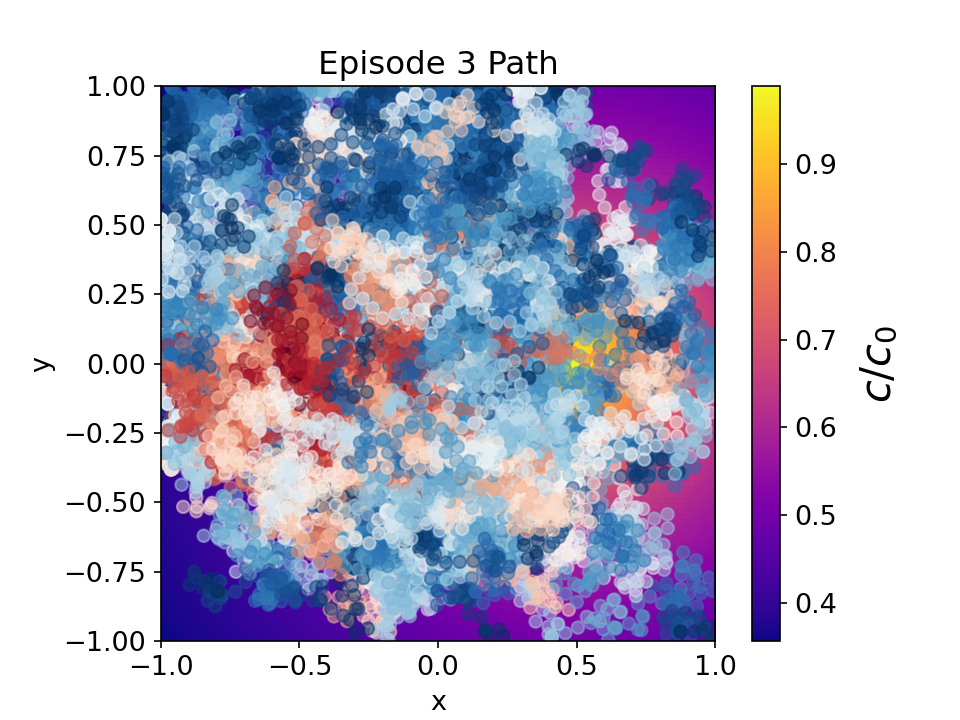
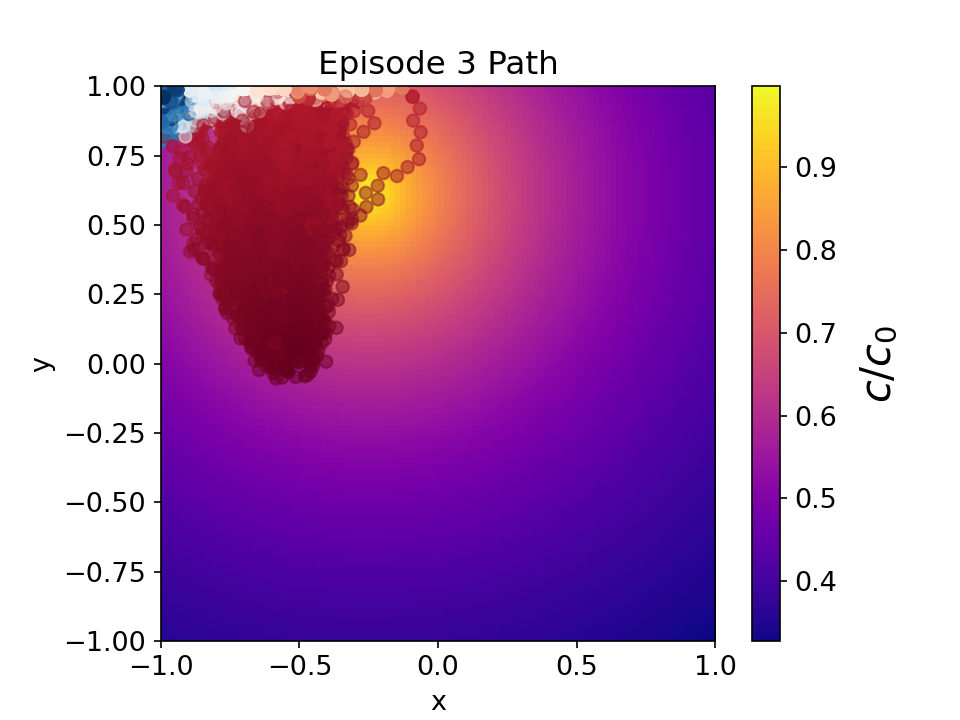
test episodes implemented

diff --git a/plot_utils.py b/plot_utils.py
@@ -2,38 +2,42 @@ import matplotlib.pyplot as plt
 import numpy as np
 import os
 import shutil
-from matplotlib import patches
 
 class RLPlotter():
-    def __init__(self, logger):
+    def __init__(self, logger, path, test=False):
         self.logger = logger
-    
-    def update_goal(self, goal_area):
-        self.goal_area = goal_area
+        self.path = path
+        self.test = test
 
+    def update_goal(self, goal):
+        self.goal = goal
 
-    def clear_plots(self):
-        clear_folder('episode_losses_critic')
-        clear_folder('episode_losses_actor')
-        clear_folder('episode_actions')
-        clear_folder('episode_paths')
-        clear_folder('run_losses_critic')
-        clear_folder('run_losses_actor')
-        clear_folder('episode_steps')
-        clear_folder('episode_actions_polar')
+    def clear_plots(self, path):
+        if not self.test:
+            clear_folder('episode_losses_critic', path)
+            clear_folder('episode_losses_actor', path)
+            clear_folder('run_losses_critic', path)
+            clear_folder('run_losses_actor', path)
+            
+        clear_folder('episode_actions', path)
+        clear_folder('episode_paths', path)
+        clear_folder('episode_steps', path)
+        clear_folder('episode_actions_polar', path)
 
     def plot_last_episode(self):
-        self.plot_last_episode_losses_critic()
-        self.plot_last_episode_losses_actor()
+        if not self.test:
+            self.plot_last_episode_losses_critic()
+            self.plot_last_episode_losses_actor()
+            self.plot_last_losses_critic()
+            self.plot_last_losses_actor()
+
         self.plot_last_episode_actions()
         self.plot_last_episode_paths()
-        self.plot_last_losses_critic()
-        self.plot_last_losses_actor()
         self.plot_last_episode_steps()
         self.plot_last_episdode_actions_polar()
 
     def plot_last_episode_losses_critic(self):        
-        folder = os.path.join('logs', 'episode_losses_critic')
+        folder = os.path.join(self.path, 'episode_losses_critic')
         i = len(self.logger.episode_losses_critic)-1
         x = np.arange(len(self.logger.episode_losses_critic[i]))
         plt.plot(x, self.logger.episode_losses_critic[i])
@@ -44,7 +48,7 @@ class RLPlotter():
         plt.close()
     
     def plot_last_episode_losses_actor(self):
-        folder = os.path.join('logs', 'episode_losses_actor')
+        folder = os.path.join(self.path, 'episode_losses_actor')
         i = len(self.logger.episode_losses_actor)-1
         x = np.arange(len(self.logger.episode_losses_actor[i]))
         plt.plot(x, self.logger.episode_losses_actor[i])
@@ -55,7 +59,7 @@ class RLPlotter():
         plt.close()
 
     def plot_last_losses_critic(self):
-        folder = os.path.join('logs', 'run_losses_critic')
+        folder = os.path.join(self.path, 'run_losses_critic')
         shutil.rmtree(folder, ignore_errors=True)
         os.makedirs(folder, exist_ok=True)
         x = np.arange(len(self.logger.losses_critic))
@@ -67,7 +71,7 @@ class RLPlotter():
         plt.close()
     
     def plot_last_losses_actor(self):
-        folder = os.path.join('logs', 'run_losses_actor')
+        folder = os.path.join(self.path, 'run_losses_actor')
         shutil.rmtree(folder, ignore_errors=True)
         os.makedirs(folder, exist_ok=True)
         x = np.arange(len(self.logger.losses_actor))
@@ -79,7 +83,7 @@ class RLPlotter():
         plt.close()
 
     def plot_last_episode_steps(self):
-        folder = os.path.join('logs', 'episode_steps')
+        folder = os.path.join(self.path, 'episode_steps')
         shutil.rmtree(folder, ignore_errors=True)
         os.makedirs(folder, exist_ok=True)
         x = np.arange(len(self.logger.episode_steps))
@@ -90,7 +94,7 @@ class RLPlotter():
         plt.close()
     
     def plot_last_episode_actions(self):
-        folder = os.path.join('logs', 'episode_actions')
+        folder = os.path.join(self.path, 'episode_actions')
         i = len(self.logger.episode_actions) - 1
         x = np.arange(len(self.logger.episode_actions[i]))
         plt.plot(x, self.logger.episode_actions[i])
@@ -101,7 +105,7 @@ class RLPlotter():
         plt.close()
     
     def plot_last_episdode_actions_polar(self):
-        folder = os.path.join('logs', 'episode_actions_polar')
+        folder = os.path.join(self.path, 'episode_actions_polar')
         i = len(self.logger.episode_actions) - 1
         x = np.arange(len(self.logger.episode_actions[i]))
         fig = plt.figure()
@@ -111,13 +115,11 @@ class RLPlotter():
         plt.close()
 
     def plot_last_episode_paths(self):
-        folder = os.path.join('logs', 'episode_paths')
+        folder = os.path.join(self.path, 'episode_paths')
         i = len(self.logger.episode_states) - 1
-
         x = np.array(self.logger.episode_states[i])[:,:,0]
         y = np.array(self.logger.episode_states[i])[:,:,1]
-        plot_normalized_concentration(self.goal_area)
-        
+        plot_normalized_concentration(self.goal)
         colormap_array = np.linspace(0,1,x.shape[0])
         for j in range(x.shape[1]):
             plt.scatter(x[:,j], y[:,j], c=colormap_array, cmap='RdBu', alpha=0.5)
@@ -128,10 +130,10 @@ class RLPlotter():
         plt.savefig(os.path.join(folder, f'episode{i}_path.png'))
         plt.close()
 
-def plot_normalized_concentration(goal_area, show=False):
+def plot_normalized_concentration(goal, show=False):
     x,y = np.meshgrid(np.linspace(-1,1,100),np.linspace(-1,1,100))
 
-    r = np.sqrt((x-goal_area.center[0][0])**2+(y-goal_area.center[0][1])**2)
+    r = np.sqrt((x-goal.center[0][0])**2+(y-goal.center[0][1])**2)
 
     concentration = 1/(1+r)
 
@@ -143,7 +145,7 @@ def plot_normalized_concentration(goal_area, show=False):
     if show:
         plt.show()
 
-def clear_folder(folder_name):
-    folder = os.path.join('logs', folder_name)
+def clear_folder(folder_name, path):
+    folder = os.path.join(path, folder_name)
     shutil.rmtree(folder, ignore_errors=True)
     os.makedirs(folder, exist_ok=True)

diff --git a/environments.py b/environments.py
@@ -16,7 +16,7 @@ class BoxEnvironment1():
         self.state[:,-1] = compute_concentration(self.state[:,0:2], self.goal.center, c0)
         
     
-    def step(self, action, c0, dt, characteristic_length = 1):
+    def step(self, action, c0, dt, characteristic_length = 1, test = False):
         x, y = self.state[:,0], self.state[:,1]
         theta = action[:,0]
         #thermal noise
@@ -38,9 +38,9 @@ class BoxEnvironment1():
         self.state[:,2] = concentration 
 
         # Compute reward
-        reward = self.reward(dt, np.array(inside_space).astype(int))
-
-        return reward
+        if not test:
+            reward = self.reward(dt, np.array(inside_space).astype(int))
+            return reward
     
     def reward(self, dt, inside_space):
         # Compute reward

diff --git a/agents.py b/agents.py
@@ -64,7 +64,7 @@ class SACAgent(nn.Module):
         self.critic1 = QCritic(state_dim, act_dim, hidden_dims, activation)
         self.critic2 = QCritic(state_dim, act_dim, hidden_dims, activation)
 
-        def act(self, state, deterministic=False):
-            with tr.no_grad():
-                a, _ = self.actor(state, deterministic, False)
-                return a.cpu().numpy()
+    def act(self, state, deterministic=False):
+        with tr.no_grad():
+            a, _ = self.actor(state, deterministic, False)
+            return a.cpu().numpy()
